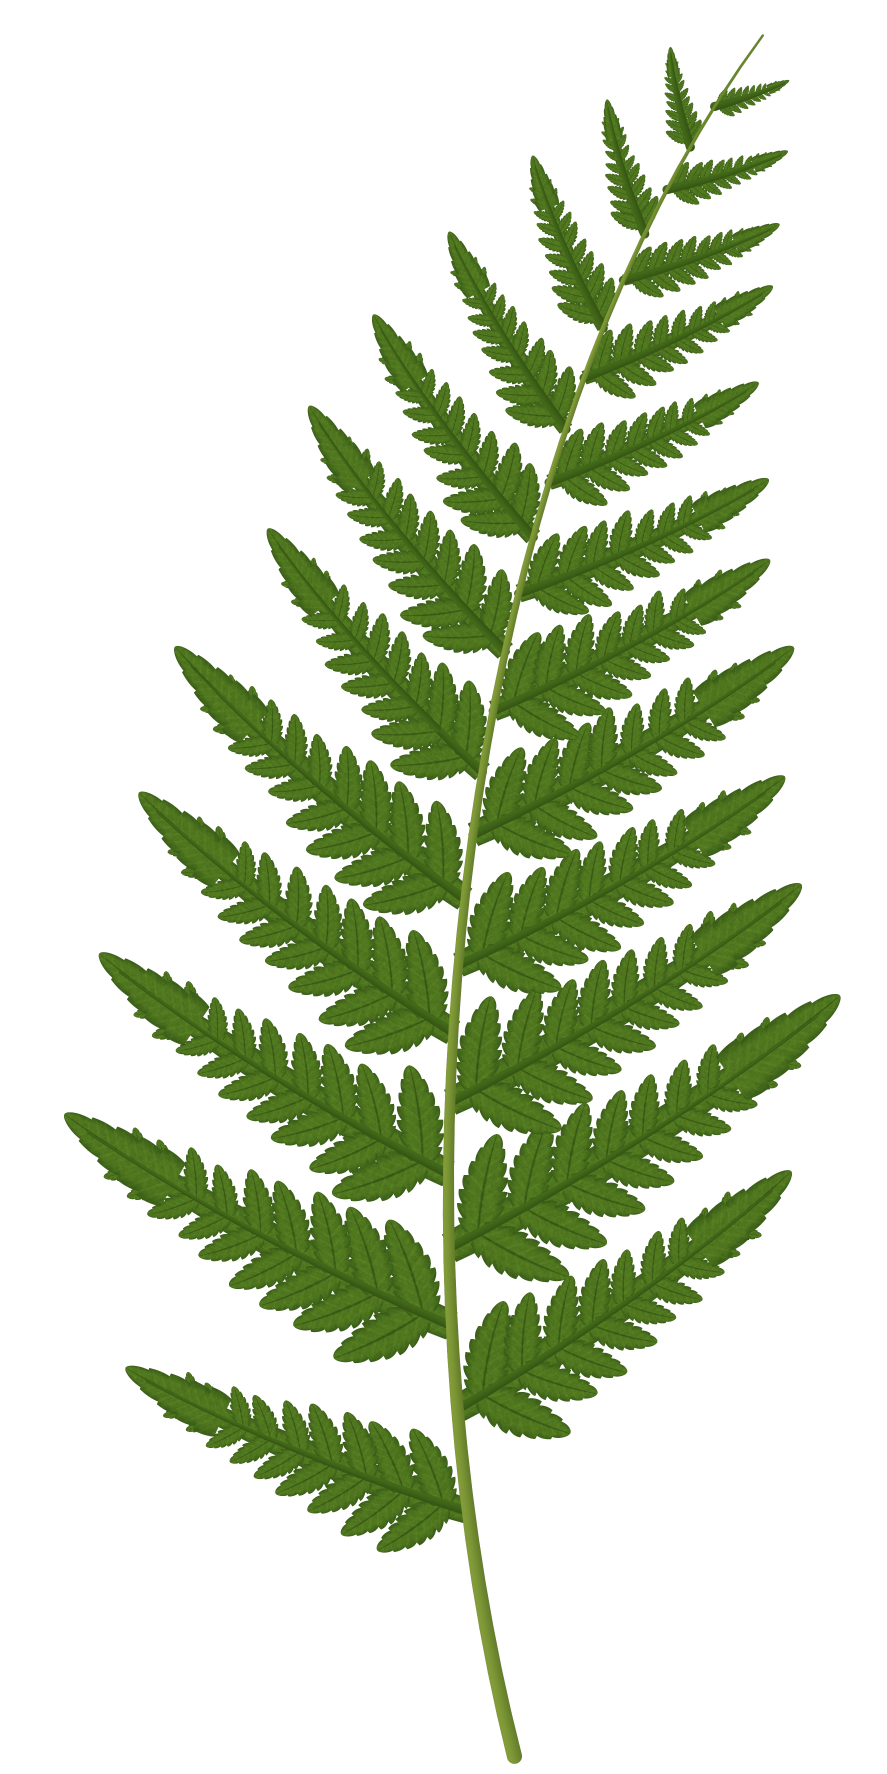
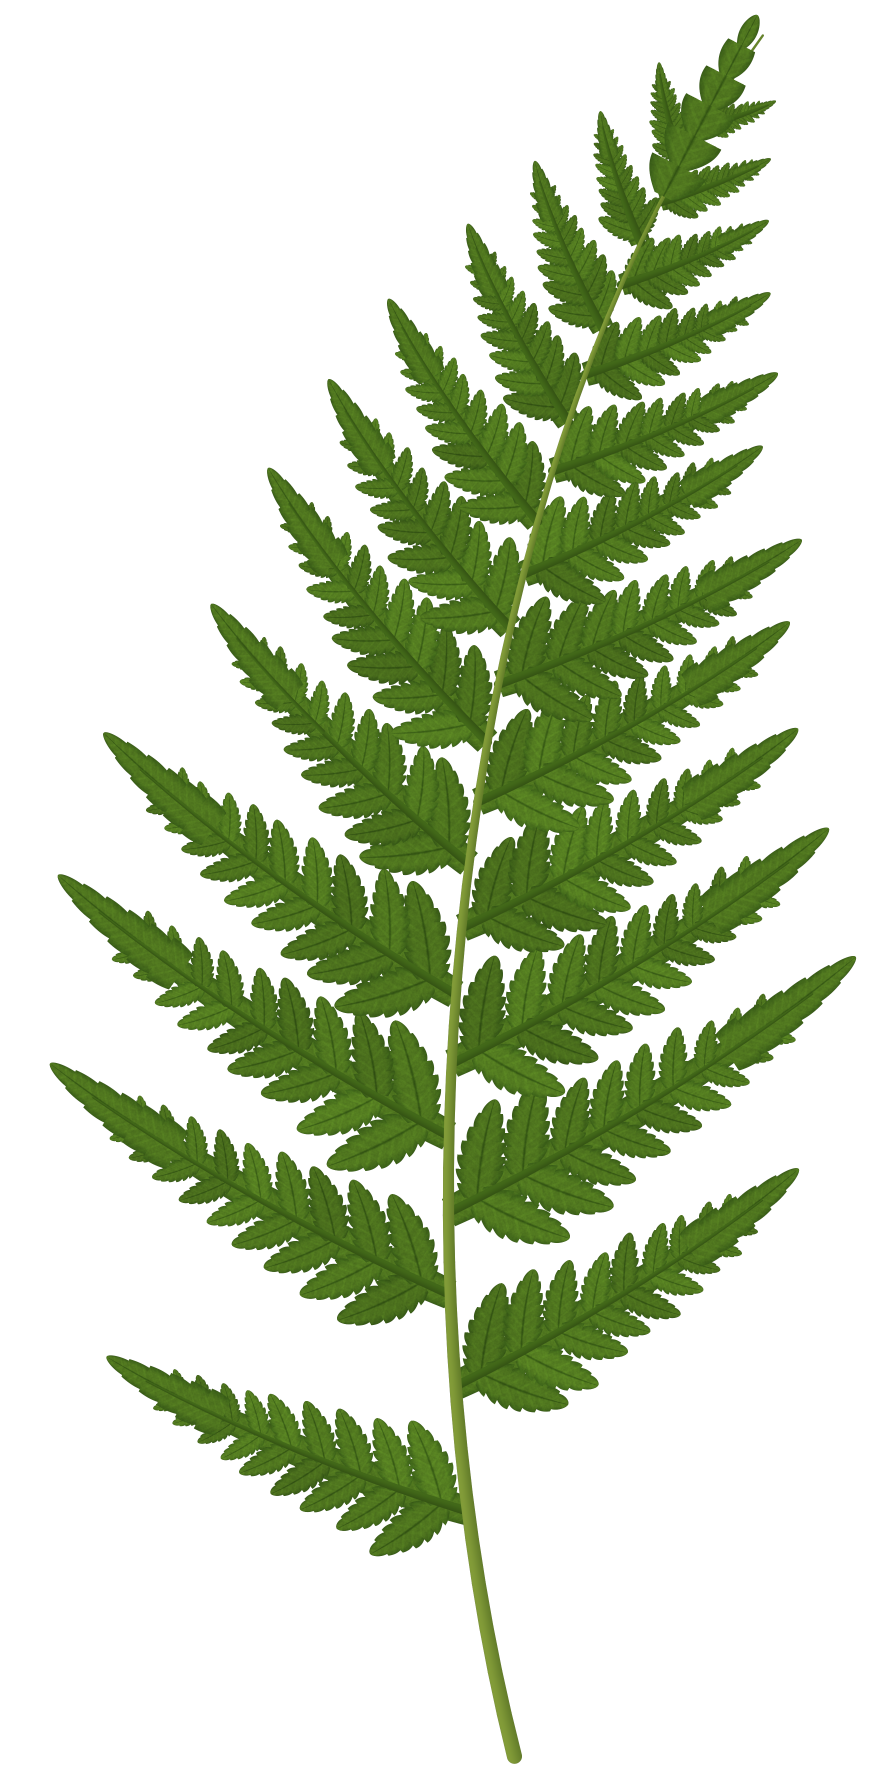
Ferns: fuller tips (the small pinnae's pinnules bigger, run into lobes; the frond's own lobed tip), each pinnule shaded a little apart; mountain pine: fewer, straighter branches
Claude-Session: https://claude.ai/code/session_01TQAEkgBKh7injmVz2bq1vJ

diff --git a/tools/potop_twig.c b/tools/potop_twig.c
@@ -747,16 +747,34 @@ typedef struct
 	paint_t stalk;
 } fern_style_t;
 
+// A blade's paint a little brighter or darker (each pinnule its own)
+static blade_paint_t shaded_paint(const blade_paint_t *paint, float brightness)
+{
+	blade_paint_t shaded = *paint;
+
+	for (int k = 0; k < 3; k++)
+	{
+		shaded.base[k] *= brightness;
+		shaded.vein[k] *= brightness;
+		shaded.edge[k] *= brightness;
+	}
+	return shaded;
+}
+
 static void draw_pinna(canvas_t *canvas, random_t *random, const fern_style_t *style, float bx, float by, float angle, float length, float side)
 {
-	float segment = style->segment_length * length;
-	float step = segment * style->segment_spacing;
+	// (the smaller pinnae up the frond: their pinnules as big as they can
+	// be, run together into lobes, as on the pictures: no sparse spikes)
+	float smallness = clampf(1.0f - length / fmaxf(style->pinna_length, 1e-3f), 0.0f, 1.0f);
+	float joined = mixf(style->joined, 1.0f, smallness * smallness);
+	float segment = style->segment_length * length * mixf(1.0f, 1.5f, smallness);
+	float step = segment * style->segment_spacing * mixf(1.0f, 0.85f, smallness);
 	paint_t costa = { .tip_from = 1.0f };
 	float t = step * 0.6f / length;
 
 	// Its wing: the blade the pinnules sit on (narrow when they are apart,
 	// broad when they are lobes of it)
-	draw_blade(canvas, bx, by, angle, length, segment * mixf(0.18f, 0.55f, style->joined), side * style->pinna_curl, 0, 0.0f, 0.6f, &style->leaf);
+	draw_blade(canvas, bx, by, angle, length, segment * mixf(0.18f, 0.55f, joined), side * style->pinna_curl, 0, 0.0f, 0.6f, &style->leaf);
 	// Its pinnules both ways along it, shorter towards its tip
 	while (t < 0.86f)
 	{
@@ -769,16 +787,17 @@ static void draw_pinna(canvas_t *canvas, random_t *random, const fern_style_t *s
 		for (int k = -1; k <= 1; k += 2)
 		{
 			float out = heading + (float)k * style->segment_angle * random_range(random, 0.92f, 1.08f);
-			float half = size * mixf(0.34f, 0.42f, style->joined);
+			float half = size * mixf(0.34f, 0.42f, joined);
+			blade_paint_t own = shaded_paint(&style->leaf, random_range(random, 0.92f, 1.08f));
 
-			draw_blade(canvas, px, py, out, size, half, (float)k * -0.25f, style->teeth, style->tooth, mixf(0.4f, 0.9f, style->joined), &style->leaf);
+			draw_blade(canvas, px, py, out, size, half, (float)k * -0.25f, style->teeth, style->tooth, mixf(0.4f, 0.9f, joined), &own);
 		}
 		t += step * (1.0f - 0.55f * t) / length;
 	}
 	// The tip: one toothed blade where the pinnules run together
 	draw_blade(canvas, bx + sinf(angle) * length * 0.72f + cosf(angle) * side * style->pinna_curl * length * 0.26f,
 		by - cosf(angle) * length * 0.72f + sinf(angle) * side * style->pinna_curl * length * 0.26f,
-		angle + side * style->pinna_curl * 0.72f, length * 0.3f, segment * 0.32f, side * style->pinna_curl * 0.5f, 5, style->tooth * 0.8f, 0.9f,
+		angle + side * style->pinna_curl * 0.72f, length * 0.36f, segment * 0.27f, side * style->pinna_curl * 0.6f, 6, style->tooth * 0.8f, 0.9f,
 		&style->leaf);
 	// Its midrib over them, a darker green than the stalk
 	for (int k = 0; k < 3; k++)
@@ -809,10 +828,10 @@ static void draw_fern(canvas_t *canvas, random_t *random, const fern_style_t *st
 		{
 			float place = ((float)i + (k > 0 ? 0.5f : 0.0f)) / (float)style->pairs;
 			// (closer together towards the tip)
-			float t = style->pinnae_from + (1.0f - style->pinnae_from) * powf(place, 0.85f) * 0.97f;
+			float t = style->pinnae_from + (1.0f - style->pinnae_from) * powf(place, 0.78f) * 0.95f;
 			float longest = style->longest_at;
 			float size = place < longest ? mixf(0.82f, 1.0f, place / fmaxf(longest, 1e-3f))
-				: mixf(1.0f, 0.13f, powf((place - longest) / (1.0f - longest), 1.15f));
+				: mixf(1.0f, 0.12f, powf((place - longest) / (1.0f - longest), 1.05f));
 			float out = mixf(style->pinna_angle, style->pinna_angle_tip, place);
 
 			cubic_at(style->rachis, t, &x, &y, &heading);
@@ -831,6 +850,22 @@ static void draw_fern(canvas_t *canvas, random_t *random, const fern_style_t *st
 			&style->stalk);
 		last_x = x;
 		last_y = y;
+	}
+	// The frond's own tip: a lobed blade over the stalk's last stretch
+	// (the pinnae there run together into it)
+	{
+		float tip_x;
+		float tip_y;
+		float tip_heading;
+
+		float end_x;
+		float end_y;
+		float end_heading;
+
+		cubic_at(style->rachis, 0.88f, &tip_x, &tip_y, &tip_heading);
+		cubic_at(style->rachis, 1.0f, &end_x, &end_y, &end_heading);
+		draw_blade(canvas, tip_x, tip_y, tip_heading, 1.08f * sqrtf((end_x - tip_x) * (end_x - tip_x) + (end_y - tip_y) * (end_y - tip_y)),
+			style->pinna_length * style->segment_length * 0.38f, 0.0f, 6, 0.65f, 0.7f, &style->leaf);
 	}
 }
 

diff --git a/tools/plant_grow.c b/tools/plant_grow.c
@@ -400,14 +400,14 @@ static const plant_kind_t kinds[] =
 		// Jneapan (mountain pine, Pinus mugo): many crooked stems out of
 		// the ground, lying out low and turning up, few branches, the
 		// needles in brushes at their ends: a low dome on the rocks
-		.name = "mountain_pine", .shape = SHAPE_TREE, .atlas = "conifers", .height_meters = 1.8f, .stems = 7, .stem_lean_degrees = 66.0f,
-		.levels = 2, .trunk_radius_ratio = 0.035f, .taper = 0.25f, .bend = 0.4f, .crown_start = 0.2f,
-		.children = { 12, 6, 0 }, .length_ratio = { 0.36f, 0.5f, 0.0f }, .down_degrees = { 58.0f, 45.0f, 0.0f },
-		.down_spread_degrees = 15.0f, .reach = { 0.3f, 0.2f, 0.0f }, .child_radius_ratio = 0.55f, .crown = CROWN_DOME,
-		.child_start = 0.2f, .leaves_per_branch = 5, .leaf_size = 0.45f,
-		.twig_scale = 1.4f, .side_twigs = 2.5f, .tip_twig = true, .twig_flat = 0.15f, .fruit_hang = FRUIT_OUT, .fruit_zone = FRUIT_OUTER,
-		.droop = 0.01f, .tip_lift = 0.45f, .collar = 0.15f, .root_flare = 0.1f, .leaves_from = 0.2f,
-		.fork_height = 0.0f, .extra_stem_chance = 0.4f, .gnarl = 0.4f, .kinks = 0.25f, .lean_length = 0.55f, .straighten = 0.6f,
+		.name = "mountain_pine", .shape = SHAPE_TREE, .atlas = "conifers", .height_meters = 1.6f, .stems = 8, .stem_lean_degrees = 76.0f,
+		.levels = 2, .trunk_radius_ratio = 0.03f, .taper = 0.3f, .bend = 0.55f, .crown_start = 0.3f,
+		.children = { 8, 3, 0 }, .length_ratio = { 0.36f, 0.45f, 0.0f }, .down_degrees = { 50.0f, 35.0f, 0.0f },
+		.down_spread_degrees = 10.0f, .reach = { 0.25f, 0.15f, 0.0f }, .child_radius_ratio = 0.55f, .crown = CROWN_DOME,
+		.child_start = 0.35f, .leaves_per_branch = 4, .leaf_size = 0.5f,
+		.twig_scale = 1.5f, .side_twigs = 1.2f, .tip_twig = true, .twig_flat = 0.2f, .fruit_hang = FRUIT_OUT, .fruit_zone = FRUIT_OUTER,
+		.droop = 0.01f, .tip_lift = 0.4f, .collar = 0.15f, .root_flare = 0.1f, .leaves_from = 0.4f,
+		.fork_height = 0.0f, .extra_stem_chance = 0.3f, .gnarl = 0.2f, .kinks = 0.1f, .lean_length = 0.6f, .straighten = 0.5f,
 		.moss = 0.20f, .tips = 0.60f, .autumn_colors = { { 0.0f, 0.0f, 0.0f }, { 0.0f, 0.0f, 0.0f } }, .autumn = 0.0f, .falls = false,
 		.snow_sag = 0.020f,
 	},
